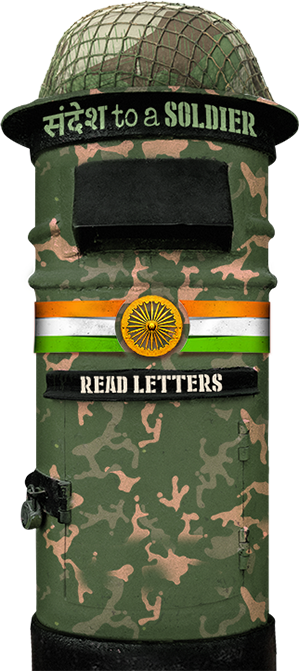
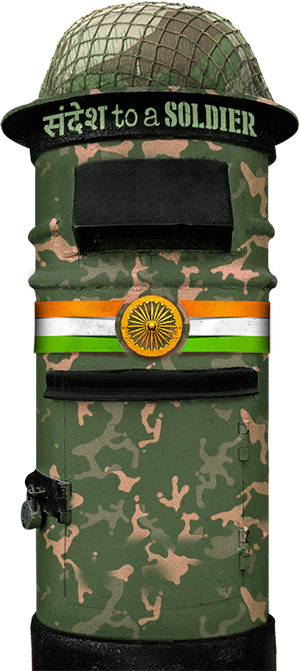
Final Update of S2S Widget

Changed region(s): [[0.27, 0.5365, 0.75, 0.5961]]

diff --git a/dev/sandesh-to-a-soldier-widget/index.html b/dev/sandesh-to-a-soldier-widget/index.html
@@ -24,12 +24,14 @@
 <link rel="icon" type="image/x-icon" href="assets/images/favicon/favicon.ico">
 
 <!-- CSS -->
-<link href="https://fonts.googleapis.com/css?family=Special+Elite" rel="stylesheet">
 <link href="assets/css/font-awesome.min.css" rel="stylesheet" media="all">
 <link href="assets/css/base.css" rel="stylesheet" media="all">
-<link href="assets/css/slick.css" rel="stylesheet" media="all">
+<!-- <link href="assets/css/slick.css" rel="stylesheet" media="all"> -->
 <link href="assets/css/theme.css" rel="stylesheet" media="all">
 <link href="assets/css/responsive.css" rel="stylesheet" media="all">
+
+<!-- <link href="https://fonts.googleapis.com/css?family=Special+Elite" rel="stylesheet"> -->
+<link href="https://fonts.googleapis.com/css?family=Oswald:600|Special+Elite" rel="stylesheet">
 
 <!-- OG Tag -->
 <meta property="og:title" content="Send your Sandesh to a Soldier Here!">
@@ -110,7 +112,6 @@ _comscore.push(COMSCORE_OPTS);
 </script>
 <!-- End Tag Manager-->
 
-<script type="text/javascript" src="assets/js/jquery-1.10.2.min.js"></script>
 <script type='text/javascript'>
     window.talktype = window.talktype || function(f) {
         (talktype.q = talktype.q || []).push(arguments);
@@ -133,16 +134,14 @@ _comscore.push(COMSCORE_OPTS);
     <div class="satellite-container">
         <div class="satellite-inner-container"> <img class="satellite" src="assets/images/satellite.png" alt="satellite">
             <a id="btn_ugc" class="btn-write-letter hvr-pulse-grow" href="javascript:void(0)"><img src="assets/images/btn-wright-letter.png" alt="Write a Letter"></a>
+            
             <div class="el-container">
-                <div class="slider-bg">
-                    <div class="el-slider" id="listData"> </div>
+                <div class="slider-bg-box">
+                    <p class="letter-text"><strong>Read Letters</strong> From India.</p>
+                    <span class="click-btn"><a href="https://www.thequint.com/quintlab/sandesh-to-a-soldier/" target="_blank"><span>Click Here</span></a></span>
+                    <!-- <div class="el-slider" id="listData"> </div> -->
                 </div>
             </div>
-            <ul class="filter">
-                <li class="filter-audio" data-filter="audio"><a href="javascript:void(0);">a</a></li>
-                <li class="filter-video" data-filter="video"><a href="javascript:void(0);">v</a></li>
-                <li class="filter-text" data-filter="text"><a href="javascript:void(0);">t</a></li>
-            </ul>
         </div>
     </div>
 </div>
@@ -151,13 +150,13 @@ _comscore.push(COMSCORE_OPTS);
     <div class="modal-box"> <a id="close_card" class="close-card" href="javascript:void(0);"><i class="fa fa-times"></i></a>
         <div class="modal-content">
             <div class="data-video">
-                <div class="frame-video"> </div>
+                <!-- <div class="frame-video"> </div> -->
             </div>
             <div class="data-message">
                 <p><span></span> <a class="data-story" href="#" target="_blank">Read Full Letter</a></p>
             </div>
             <h3 class="data-name"></h3>
-            <h4 class="data-deg"></h4>
+            <!-- <h4 class="data-deg"></h4> -->
             <h5 class="data-location"></h5>
         </div>
     </div>
@@ -179,20 +178,19 @@ _comscore.push(COMSCORE_OPTS);
 </div>
 
 <script type="text/javascript" src="assets/js/jquery.min.js"></script>
-<script type="text/javascript" src="assets/js/slick.js"></script>
-<script type="text/javascript" src="assets/js/spreadsheet.js"></script>
-<script type="text/javascript" src="assets/js/data-spreadsheet.js"></script>
-<script type="text/javascript" src="assets/js/functions.js"></script>
-<script>
-jQuery(document).ready(function($) {
+<script type="text/javascript">
+    $('#btn_ugc').click(function(){
+        $('#ugc_Modal').addClass('is-open');
+    });
+    $('#close_ugc').click(function(){
+        $('#ugc_Modal').removeClass('is-open');
+    });
 
     $(window).load(function() {
         $('#preloader').fadeOut('slow', function() { $(this).remove(); });
         $('.lti-container').fadeOut('slow', function() { $(this).removeClass('loading'); });
         $('.globe').fadeOut('slow', function() { $(this).removeClass('loading'); });
     });
-
-});
 </script>
 </body>
 

diff --git a/dev/sandesh-to-a-soldier-widget/assets/css/theme.css b/dev/sandesh-to-a-soldier-widget/assets/css/theme.css
@@ -163,6 +163,65 @@ h6 {
     z-index: 1002;
 }
 
+.slider-bg-box {
+    width: 145px;
+    height: 150px;
+    background-image: url(../images/slider-bg.png);
+    background-repeat: no-repeat;
+    background-position: center;
+    background-size: cover;
+    bottom: 75px;
+    left: 13px;
+    right: 0;
+    margin: 0 auto;
+    position: absolute;
+    padding: 22px 23px 0 16px;
+}
+.slider-bg-box .letter-text {
+    text-align: center;
+    margin: 0 0 8px;
+    line-height: 115%;
+    font-weight: bold;
+}
+.slider-bg-box .click-btn {
+    margin: 0 auto;
+    display: block;
+    padding: 4px 0 5px;
+    color: #fff;
+    text-align: center;
+    font-size: 17px;
+    letter-spacing: 1px;
+    border-radius: 3px;
+    background-color: #292929;
+    text-transform: uppercase;
+    font-weight: 600;
+    font-family: "Oswald", sans-serif;
+}
+
+.slider-bg-box .click-btn span {
+    display: block;
+    background: url(../images/animated_text_fill2.jpg) repeat-y;
+    -webkit-background-clip: text;
+    background-clip: text;
+    -webkit-text-fill-color: transparent;
+    -webkit-animation: aitf 18s linear infinite;
+    -webkit-transform: translate3d(0, 0, 0);
+    -webkit-backface-visibility: hidden;
+}
+@-webkit-keyframes aitf {
+  0% {
+    background-position: 0% 50%;
+  }
+  100% {
+    background-position: 100% 50%;
+  }
+}
+
+
+
+
+
+
 .slider-bg {
     width: 120px;
     height: 120px;
@@ -277,12 +336,16 @@ h6 {
 
 .list-el h3 {
     font-weight: 700;
+    font-size: 16px
 }
 
 .data-message p {
+    font-size: 20px;
     margin-bottom: 20px;
 }
-
+/*.data-message p span {
+    display: block;
+}*/
 .data-video {
     margin: -20px -20px 20px -20px;
 }

diff --git a/dev/sandesh-to-a-soldier-widget/assets/js/data-spreadsheet.js b/dev/sandesh-to-a-soldier-widget/assets/js/data-spreadsheet.js
@@ -84,9 +84,17 @@ function display_data() {
 		var data_deg = $(this).attr('data-deg');
 		var data_location = $(this).attr('data-location');
 		var data_story = $(this).attr('data-story');
+
+		console.log("test:"+data_video);
 		
+		if(data_video == ""){
+			console.log("blank");
+			$('.data-video').html('');
+		}else {
+			$('.data-video').html('<div class="frame-video"><iframe src="https://www.youtube.com/embed/' + data_video + '" frameborder="0" allow="autoplay; encrypted-media" allowfullscreen></iframe></div>');
+		}
 		
-		$('.data-video .frame-video').html('<iframe src="https://www.youtube.com/embed/' + data_video + '" frameborder="0" allow="autoplay; encrypted-media" allowfullscreen></iframe>');
+		//$('.data-video .frame-video').html('<iframe src="https://www.youtube.com/embed/' + data_video + '" frameborder="0" allow="autoplay; encrypted-media" allowfullscreen></iframe>');
 		$('.data-message p span').html(data_message);
 		$('.data-name').html(data_name);
 		$('.data-deg').html(data_deg);
